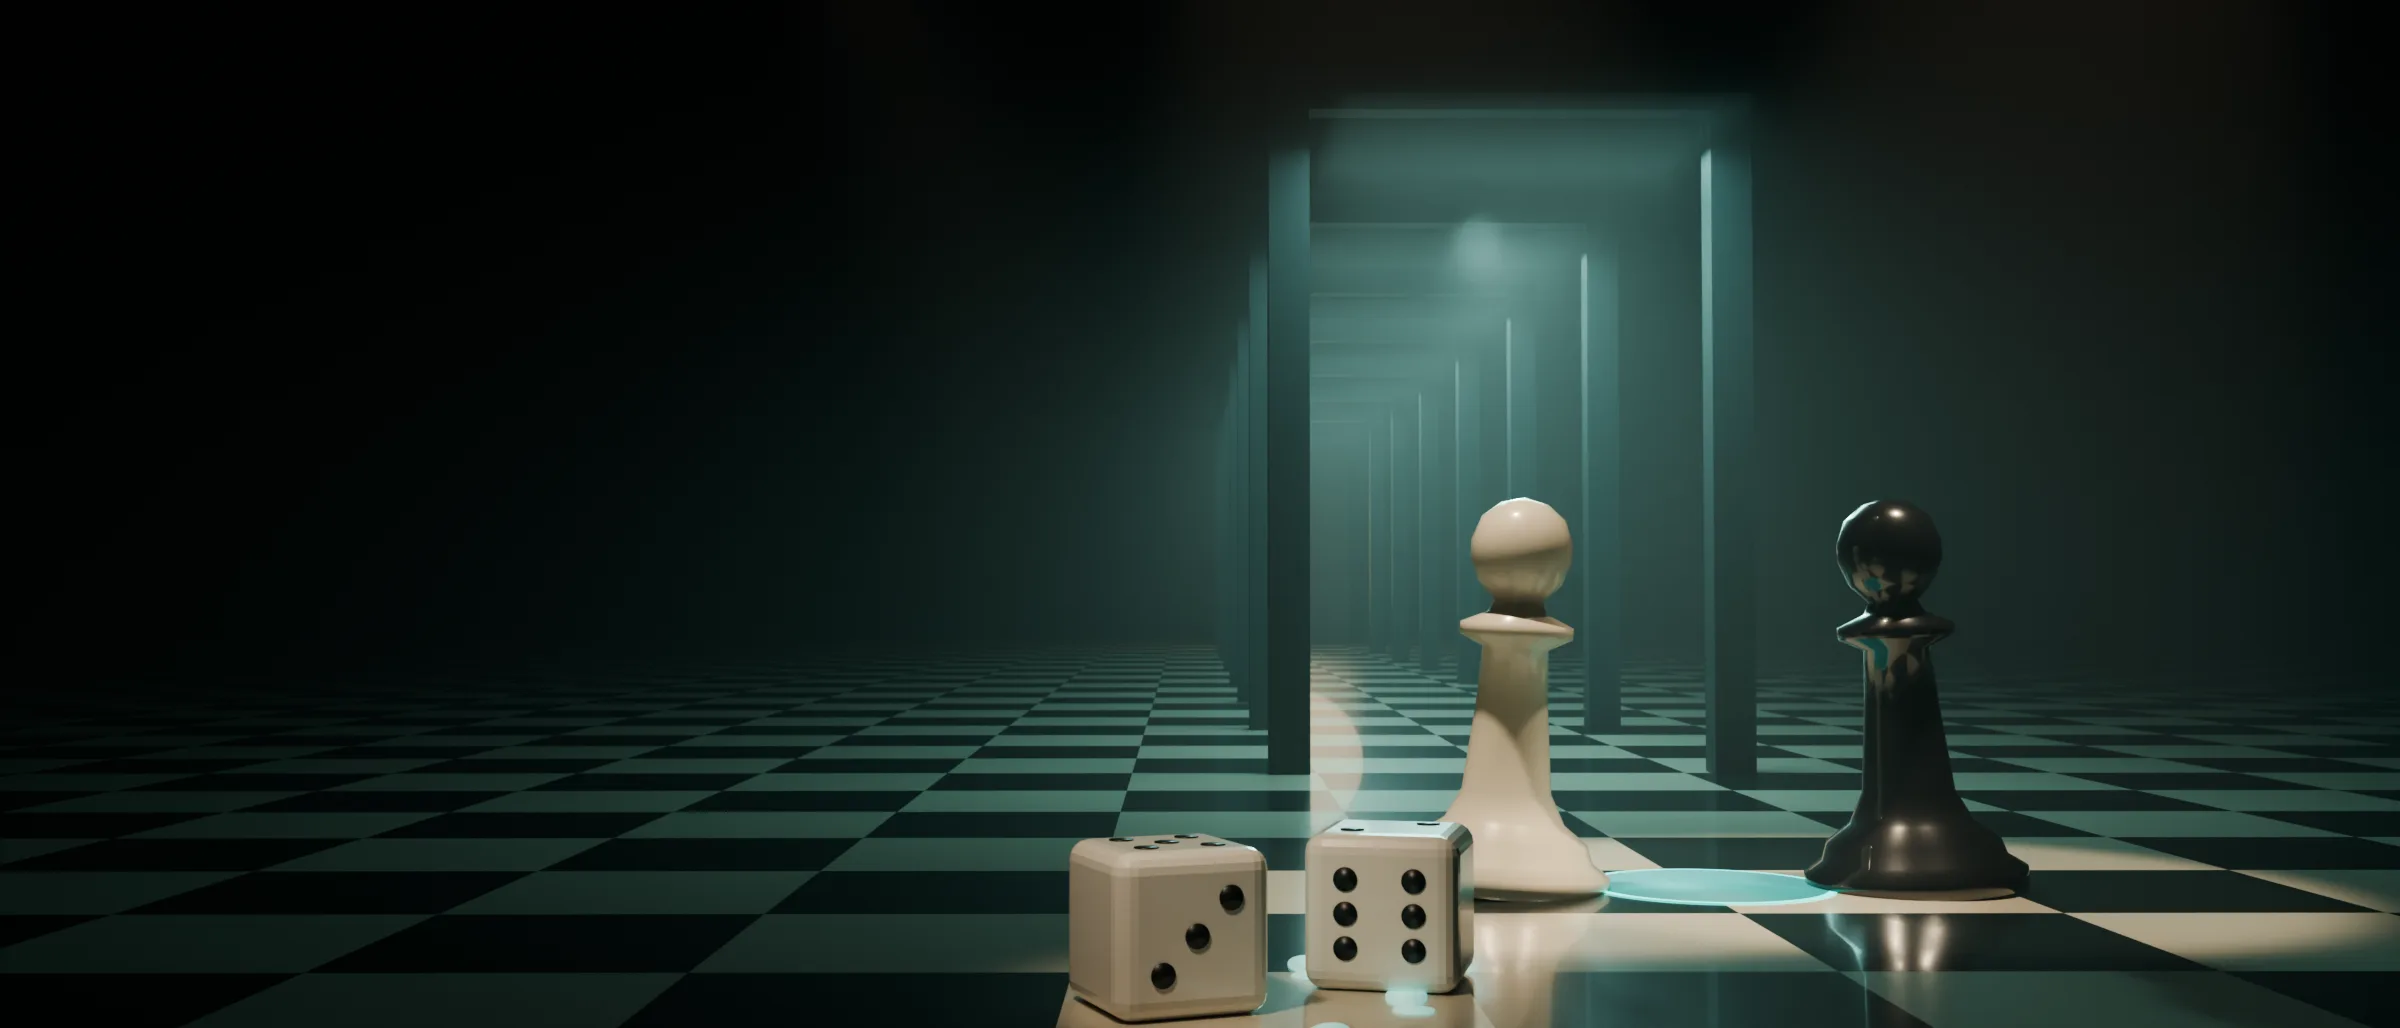
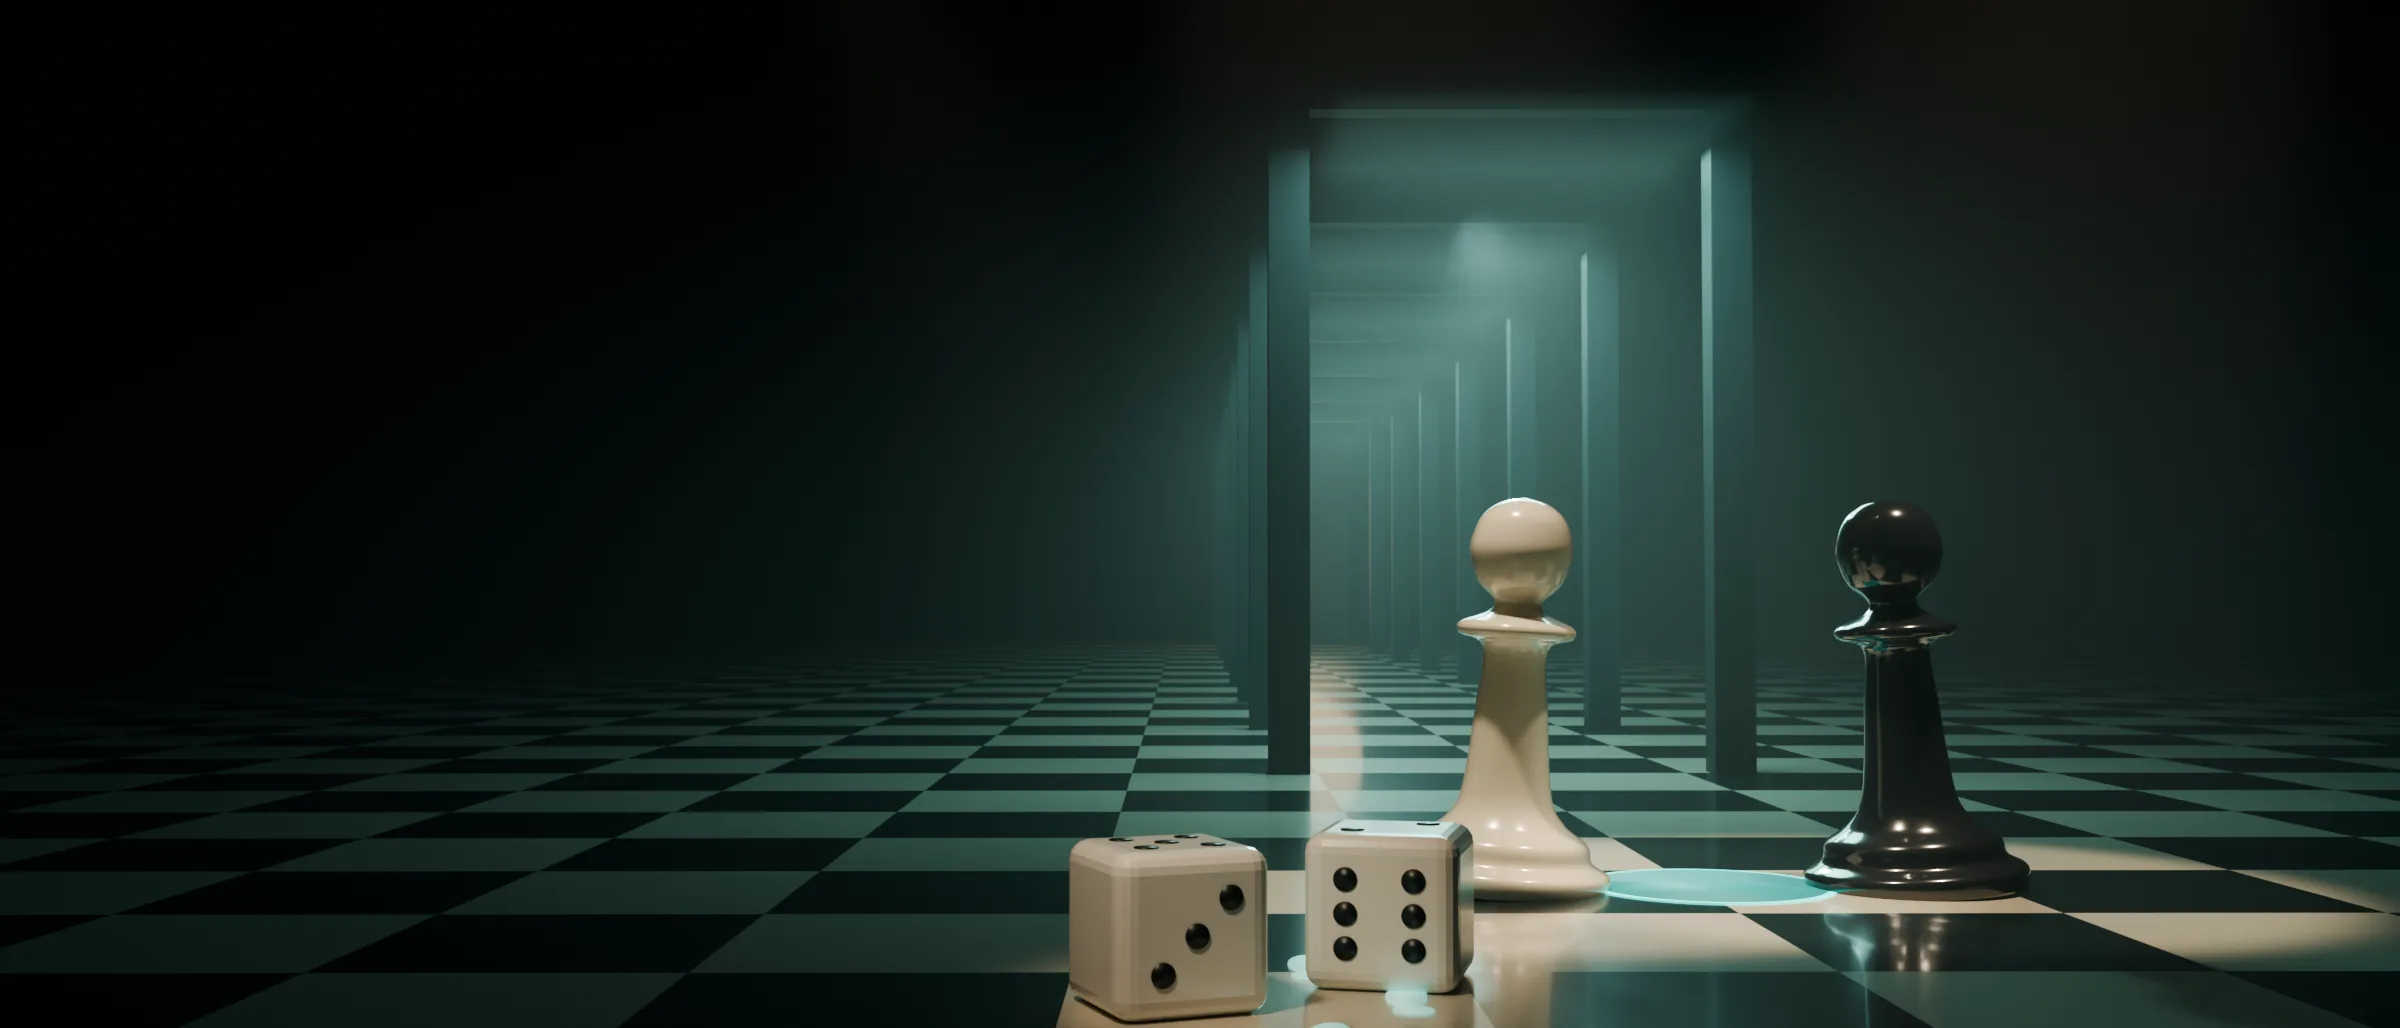
Glossy header pawns; reword the next-move headline
Smooth the pawn silhouette, give both pieces a clear lacquer coat, and
turn off caustics so the black pawn renders without blotches. Headline
now reads "See the game without becoming part of the game."

diff --git a/public/js/game.js b/public/js/game.js
@@ -239,7 +239,7 @@
       </section>` : ''}
 
       <section class="wrap next-move" aria-labelledby="next-move-h">
-        <div class="section-head"><p class="eyebrow">Your next move</p><h2 id="next-move-h">See the game without becoming the game.</h2></div>
+        <div class="section-head"><p class="eyebrow">Your next move</p><h2 id="next-move-h">See the game without becoming part of the game.</h2></div>
         <div class="nm-grid">
           <button class="nm nm-play" data-act="${done ? 'profile' : 'play'}">
             <img class="nm-art" src="/img/next/play.webp?v=${PP.assetV}" width="720" height="720" alt="" loading="lazy">

diff --git a/public/js/art.js b/public/js/art.js
@@ -7,7 +7,7 @@ window.PP = window.PP || {};
 PP.art = (function () {
   let uid = 0;
   // Bump when rendered images change, so browsers fetch the new files.
-  PP.assetV = '4';
+  PP.assetV = '5';
 
   const DOG = `<g class="dog-head">
     <path d="M-30,-6 C-46,0 -48,34 -36,44 C-30,30 -28,14 -24,4 Z" fill="#5a3f28"/>

diff --git a/tools/blender/render_hero.py b/tools/blender/render_hero.py
@@ -35,6 +35,7 @@ def mat(name, color, rough=0.5, metal=0.0, emit=None, strength=0.0, coat=0.0):
     p.inputs['Metallic'].default_value = metal
     if coat and 'Coat Weight' in p.inputs:
         p.inputs['Coat Weight'].default_value = coat
+        p.inputs['Coat Roughness'].default_value = 0.06
     if emit:
         p.inputs['Emission Color'].default_value = lin(emit)
         p.inputs['Emission Strength'].default_value = strength
@@ -116,6 +117,10 @@ sc = bpy.context.scene
 sc.render.engine = 'CYCLES'
 sc.cycles.samples = SAMPLES
 sc.cycles.use_denoising = True
+# Clean glossy highlights: no caustic fireflies, which the denoiser smears into blotches.
+sc.cycles.caustics_reflective = False
+sc.cycles.caustics_refractive = False
+sc.cycles.blur_glossy = 1.0
 sc.render.resolution_x, sc.render.resolution_y = W, H
 try:
     prefs = bpy.context.preferences.addons['cycles'].preferences
@@ -158,10 +163,27 @@ floor.location = (-0.5, 0, 0)
 # The two pieces: same shape, opposite colours, facing each other.
 profile = [(0.36, 0.0), (0.36, 0.06), (0.30, 0.10), (0.28, 0.16), (0.20, 0.22), (0.15, 0.32), (0.12, 0.62), (0.11, 0.80),
            (0.19, 0.84), (0.19, 0.88), (0.10, 0.92), (0.08, 0.96), (0.14, 1.02), (0.17, 1.10), (0.17, 1.16), (0.14, 1.24), (0.08, 1.29), (0.0, 1.31)]
-ivory = mat('ivory', '#ece4d2', 0.28, coat=0.6)
-ebony = mat('ebony', '#1a1d21', 0.24, coat=0.7)
-a = lathe('piece-ivory', profile, ivory, (-0.15, 1.6, 0))
-b = lathe('piece-ebony', profile, ebony, (1.25, 1.6, 0))
+# Glossy lacquer, like the home page icons: a smooth base under a clear, sharp coat.
+ivory = mat('ivory', '#ece4d2', 0.2, coat=1.0)
+ebony = mat('ebony', '#202327', 0.16, coat=1.0)
+
+
+def smooth_profile(pts, n=6):
+    # Catmull-Rom through the profile points, so the silhouette curves instead of kinking.
+    out = []
+    P = [pts[0]] + pts + [pts[-1]]
+    for i in range(1, len(P) - 2):
+        p0, p1, p2, p3 = P[i - 1], P[i], P[i + 1], P[i + 2]
+        for k in range(n):
+            t = k / n
+            out.append(tuple(0.5 * (2 * p1[j] + (-p0[j] + p2[j]) * t + (2 * p0[j] - 5 * p1[j] + 4 * p2[j] - p3[j]) * t * t + (-p0[j] + 3 * p1[j] - 3 * p2[j] + p3[j]) * t ** 3) for j in (0, 1)))
+    out.append(pts[-1])
+    return [(max(r, 0.0), z) for r, z in out]
+
+
+profile = smooth_profile(profile)
+a = lathe('piece-ivory', profile, ivory, (-0.15, 1.6, 0), segs=128)
+b = lathe('piece-ebony', profile, ebony, (1.25, 1.6, 0), segs=128)
 # A slight lean toward each other: the dance.
 a.rotation_euler = (0, math.radians(4), 0)
 b.rotation_euler = (0, math.radians(-4), 0)
